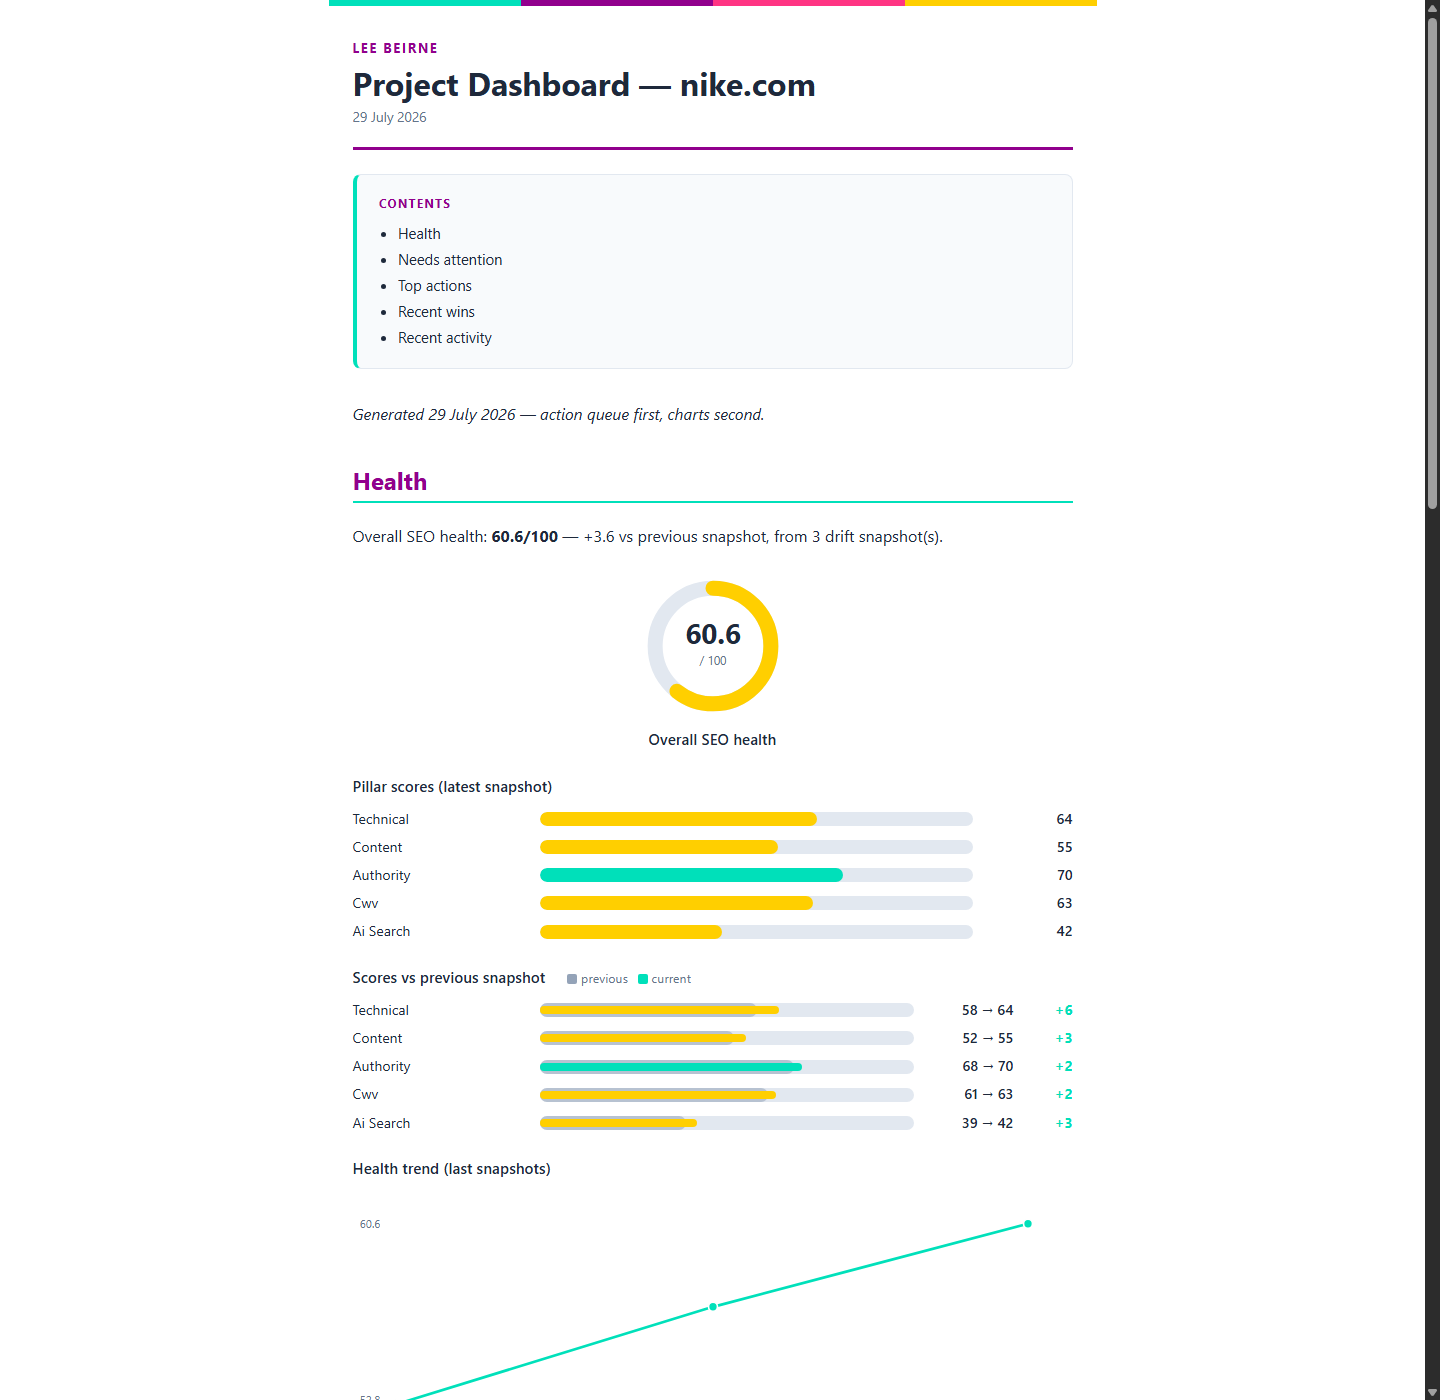
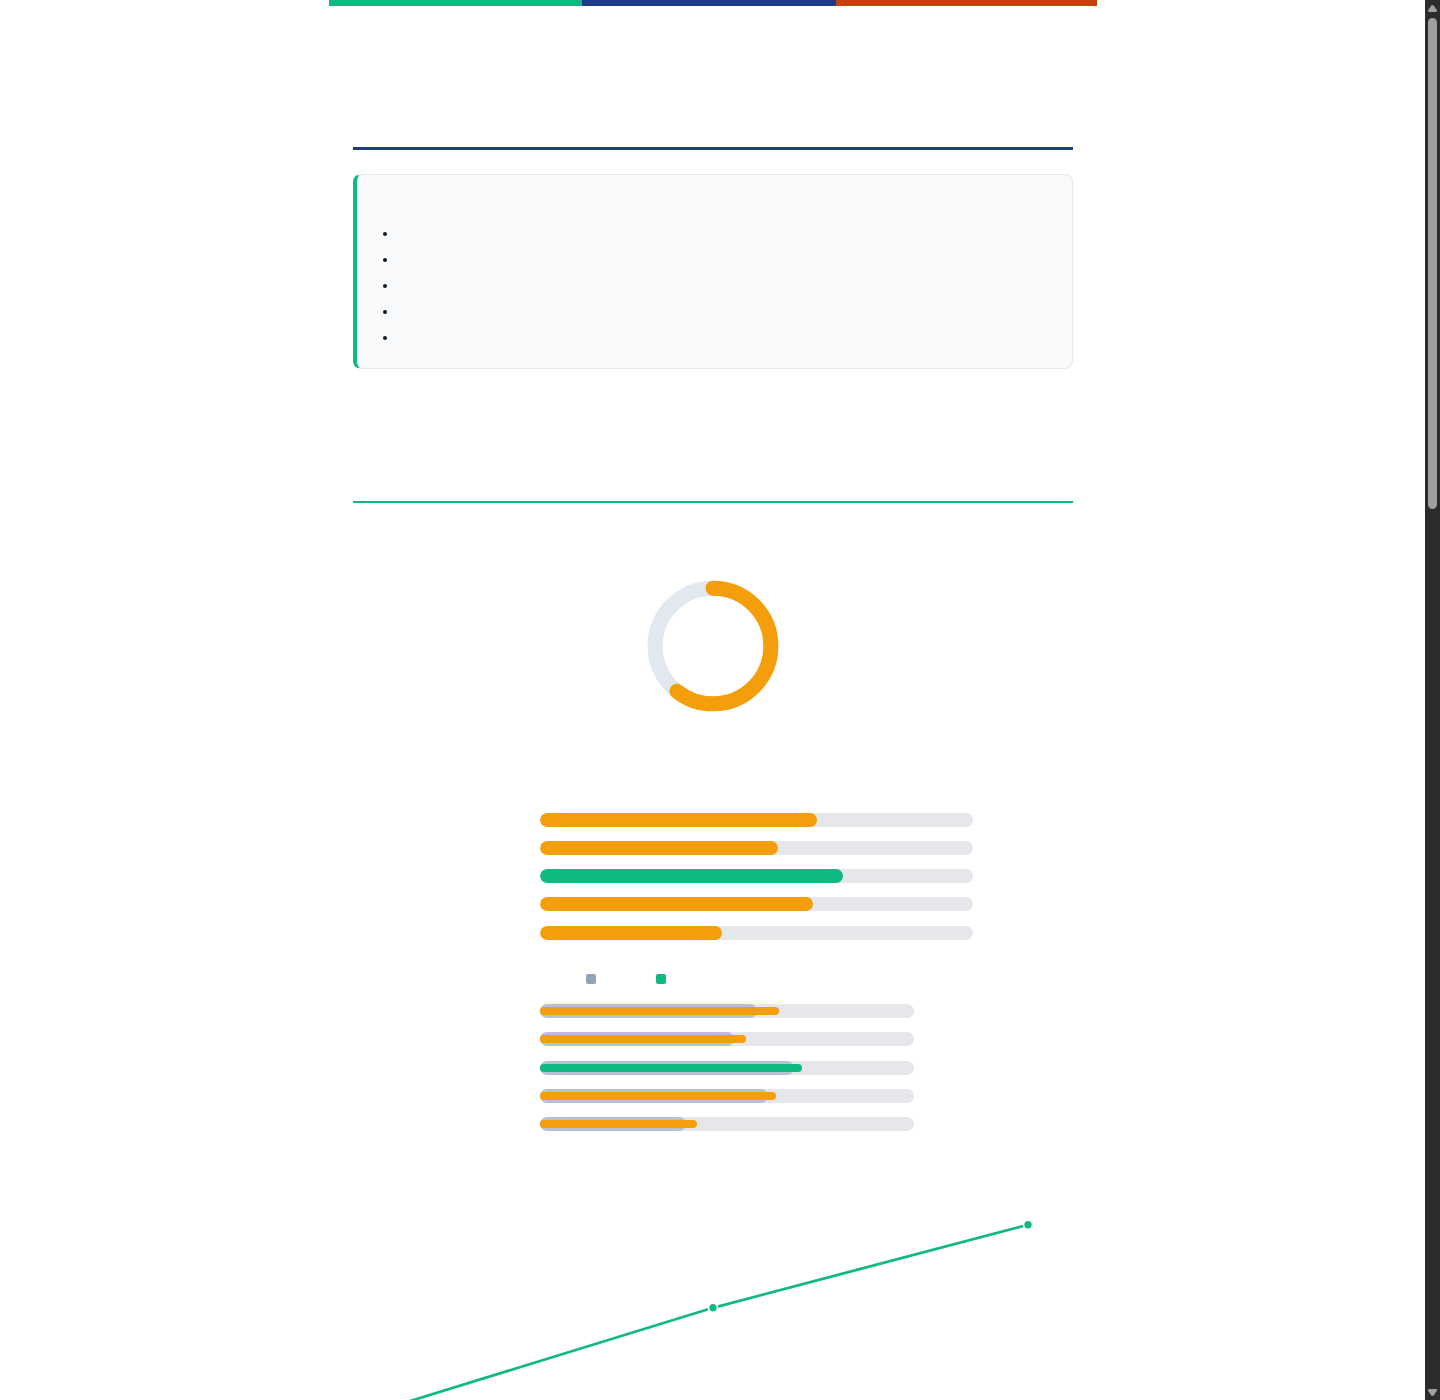
v0.19.2: rebrand compatibility fixes (link graph, tests, screenshots)

diff --git a/scripts/generate_screenshots.py b/scripts/generate_screenshots.py
@@ -95,8 +95,8 @@ def build_lint_html() -> Path:
          "the query a searcher typed.",
          "Expand to 50-60 characters with the main keyword near the front."),
     ]
-    sev_c = {"critical": "#FF3483", "high": "#91008D",
-             "medium": "#FFCF00", "low": "#00E0BA"}
+    sev_c = {"critical": "#C2410C", "high": "#1E3A8A",
+             "medium": "#F59E0B", "low": "#10B981"}
     rows = ""
     for sev, rule_id, actual, why, fix in findings:
         c = sev_c[sev]
@@ -114,14 +114,14 @@ def build_lint_html() -> Path:
     background:#0f172a;color:#e2e8f0;padding:40px 48px;max-width:1200px}}
   .head{{display:flex;align-items:center;gap:16px;margin-bottom:28px}}
   .logo{{width:48px;height:48px;border-radius:12px;
-    background:linear-gradient(135deg,#00E0BA,#91008D)}}
+    background:linear-gradient(135deg,#10B981,#1E3A8A)}}
   h1{{font-size:24px}}.dom{{color:#64748b;font-size:14px;margin-top:2px}}
   .card{{background:#1e293b;border-radius:12px;padding:28px;
     display:flex;align-items:center;gap:28px;margin-bottom:28px}}
   .ring{{position:relative;width:110px;height:110px;flex-shrink:0}}
   .ring svg{{transform:rotate(-90deg)}}
   .ring .v{{position:absolute;inset:0;display:flex;align-items:center;
-    justify-content:center;font-size:32px;font-weight:700;color:#00E0BA}}
+    justify-content:center;font-size:32px;font-weight:700;color:#10B981}}
   .meta p{{color:#94a3b8;font-size:14px;margin-bottom:6px}}
   .badge{{display:inline-block;padding:3px 10px;border-radius:4px;
     font-size:12px;font-weight:600;color:#fff;margin-right:6px}}
@@ -142,7 +142,7 @@ def build_lint_html() -> Path:
     <svg viewBox="0 0 110 110" width="110" height="110">
       <circle cx="55" cy="55" r="46" fill="none" stroke="#334155"
               stroke-width="10"/>
-      <circle cx="55" cy="55" r="46" fill="none" stroke="#00E0BA"
+      <circle cx="55" cy="55" r="46" fill="none" stroke="#10B981"
               stroke-width="10" stroke-dasharray="86.7 202.4"
               stroke-linecap="round"/>
     </svg>
@@ -152,10 +152,10 @@ def build_lint_html() -> Path:
     <p><strong style="font-size:18px">30 / 100</strong> &mdash; 12 findings,
       54 rules checked</p>
     <p style="margin-top:10px">
-      <span class="badge" style="background:#FF348322;color:#FF3483">0 critical</span>
-      <span class="badge" style="background:#91008D22;color:#c084fc">2 high</span>
-      <span class="badge" style="background:#FFCF0022;color:#FFCF00">2 medium</span>
-      <span class="badge" style="background:#00E0BA22;color:#00E0BA">8 low</span>
+      <span class="badge" style="background:#C2410C22;color:#C2410C">0 critical</span>
+      <span class="badge" style="background:#1E3A8A22;color:#93c5fd">2 high</span>
+      <span class="badge" style="background:#F59E0B22;color:#F59E0B">2 medium</span>
+      <span class="badge" style="background:#10B98122;color:#10B981">8 low</span>
     </p>
     <p style="margin-top:10px;color:#94a3b8;font-size:13px">
       Deterministic &bull; 54 YAML rules &bull; zero model calls &bull;

diff --git a/scripts/link_graph_render.py b/scripts/link_graph_render.py
@@ -38,10 +38,10 @@ RING_START = 150
 RING_STEP = 130
 
 COLOURS = {
-    "home": report_build.PURPLE,
-    "normal": report_build.TEAL,
-    "hub": report_build.YELLOW,
-    "orphan": report_build.PINK,
+    "home": report_build.NAVY,
+    "normal": report_build.EMERALD,
+    "hub": "#F59E0B",
+    "orphan": report_build.ORANGE,
     "unreachable": "#94a3b8",
 }
 
@@ -164,7 +164,7 @@ def render_svg(graph: dict[str, Any], max_labels: int = 16) -> str:
         opacity = "0.30" if e["tree"] else "0.05"
         parts.append(f'<line x1="{e["x1"]:.0f}" y1="{e["y1"]:.0f}" '
                      f'x2="{e["x2"]:.0f}" y2="{e["y2"]:.0f}" '
-                     f'stroke="{report_build.MUTED}" stroke-opacity="{opacity}" '
+                     f'stroke="#6b7280" stroke-opacity="{opacity}" '
                      f'stroke-width="1"/>')
     top = sorted(nodes, key=lambda n: -n["inlinks"])[:max_labels]
     label_urls = {n["url"] for n in top}
@@ -175,7 +175,7 @@ def render_svg(graph: dict[str, Any], max_labels: int = 16) -> str:
                      f'{n["outlinks"]} outlinks</title></circle>')
         if n["url"] in label_urls and n["depth"] >= 0:
             parts.append(f'<text x="{n["x"] + n["size"] + 3:.0f}" y="{n["y"] + 3:.0f}" '
-                         f'font-size="11" fill="{report_build.INK}">'
+                         f'font-size="11" fill="#111827">'
                          f'{_short(n["url"])}</text>')
     parts.append("</svg>")
     return "".join(parts)
@@ -249,9 +249,8 @@ def render_html(crawl: dict[str, Any], analysis: dict[str, Any],
         title=f"Internal link graph — {domain}",
         brand="Lee Beirne",
         report_date=date.today().strftime("%d %B %Y"),
-        teal=report_build.TEAL, purple=report_build.PURPLE,
-        pink=report_build.PINK, yellow=report_build.YELLOW,
-        ink=report_build.INK, muted=report_build.MUTED,
+        navy=report_build.NAVY, emerald=report_build.EMERALD,
+        orange=report_build.ORANGE, dark=report_build.DARK,
         toc="", body=body,
         footer=report_build._linkify(report_build.DEFAULT_FOOTER),
         body_class="")

diff --git a/tests/test_suite.py b/tests/test_suite.py
@@ -1310,8 +1310,8 @@ class TestReportBuild:
         md = "| Severity | Issue |\n|---|---|\n| Critical | Broken |\n| Low | Polish |"
         body, _ = report_build.md_to_html(md)
         assert 'class="badge"' in body
-        assert report_build.PINK in body   # critical colour
-        assert report_build.TEAL in body   # low colour
+        assert report_build.ORANGE in body   # critical colour
+        assert report_build.EMERALD in body  # low colour
 
     def test_toc_collected(self):
         md = "## Alpha\n\nx\n\n## Beta\n\ny\n\n## Gamma\n\nz"
@@ -1322,13 +1322,13 @@ class TestReportBuild:
         html = report_build.render_chart(
             '{"type": "donut", "title": "Score", "value": 64, "max": 100}')
         assert "<svg" in html and ">64<" in html
-        assert report_build.YELLOW in html  # 64% -> amber band
+        assert "#F59E0B" in html  # 64% -> amber band
 
     def test_donut_score_bands(self):
         good = report_build.render_chart('{"type":"donut","value":80,"max":100}')
         bad = report_build.render_chart('{"type":"donut","value":20,"max":100}')
-        assert report_build.TEAL in good
-        assert report_build.PINK in bad
+        assert report_build.EMERALD in good
+        assert report_build.ORANGE in bad
 
     def test_bar_chart(self):
         html = report_build.render_chart(

diff --git a/CHANGELOG.md b/CHANGELOG.md
@@ -3,6 +3,26 @@
 All notable changes to the OpenCode SEO Suite are documented here.
 Format follows [Keep a Changelog](https://keepachangelog.com/en/1.1.0/).
 
+## [0.19.2] - 2026-08-02
+
+Rebrand compatibility fixes.
+
+### Changed (already on main via ee3061d)
+- `report_build.py` brand palette: teal/purple/pink → **navy `#1E3A8A` /
+  emerald `#10B981` / orange `#C2410C`** (+ amber `#F59E0B` for medium),
+  fonts Segoe UI → **Inter + Space Grotesk** (Bunny Fonts). Charts, badges,
+  stat cards and table headers all use the new palette
+
+### Fixed
+- `link_graph_render.py` referenced the removed `TEAL/PURPLE/PINK/YELLOW/
+  INK/MUTED` constants and crashed on import — remapped node colours and
+  the `SHELL.format` call to the new palette
+- 5 test assertions still expecting the old colours — updated to the new
+  constants (behaviour unchanged)
+- `docs/images/*.png` regenerated with the new branding so the README
+  screenshots match what report_build now produces
+- Full suite green again: validate + 190 tests passing
+
 ## [0.19.1] - 2026-07-29
 
 README revamp and real Nike.com screenshots.
